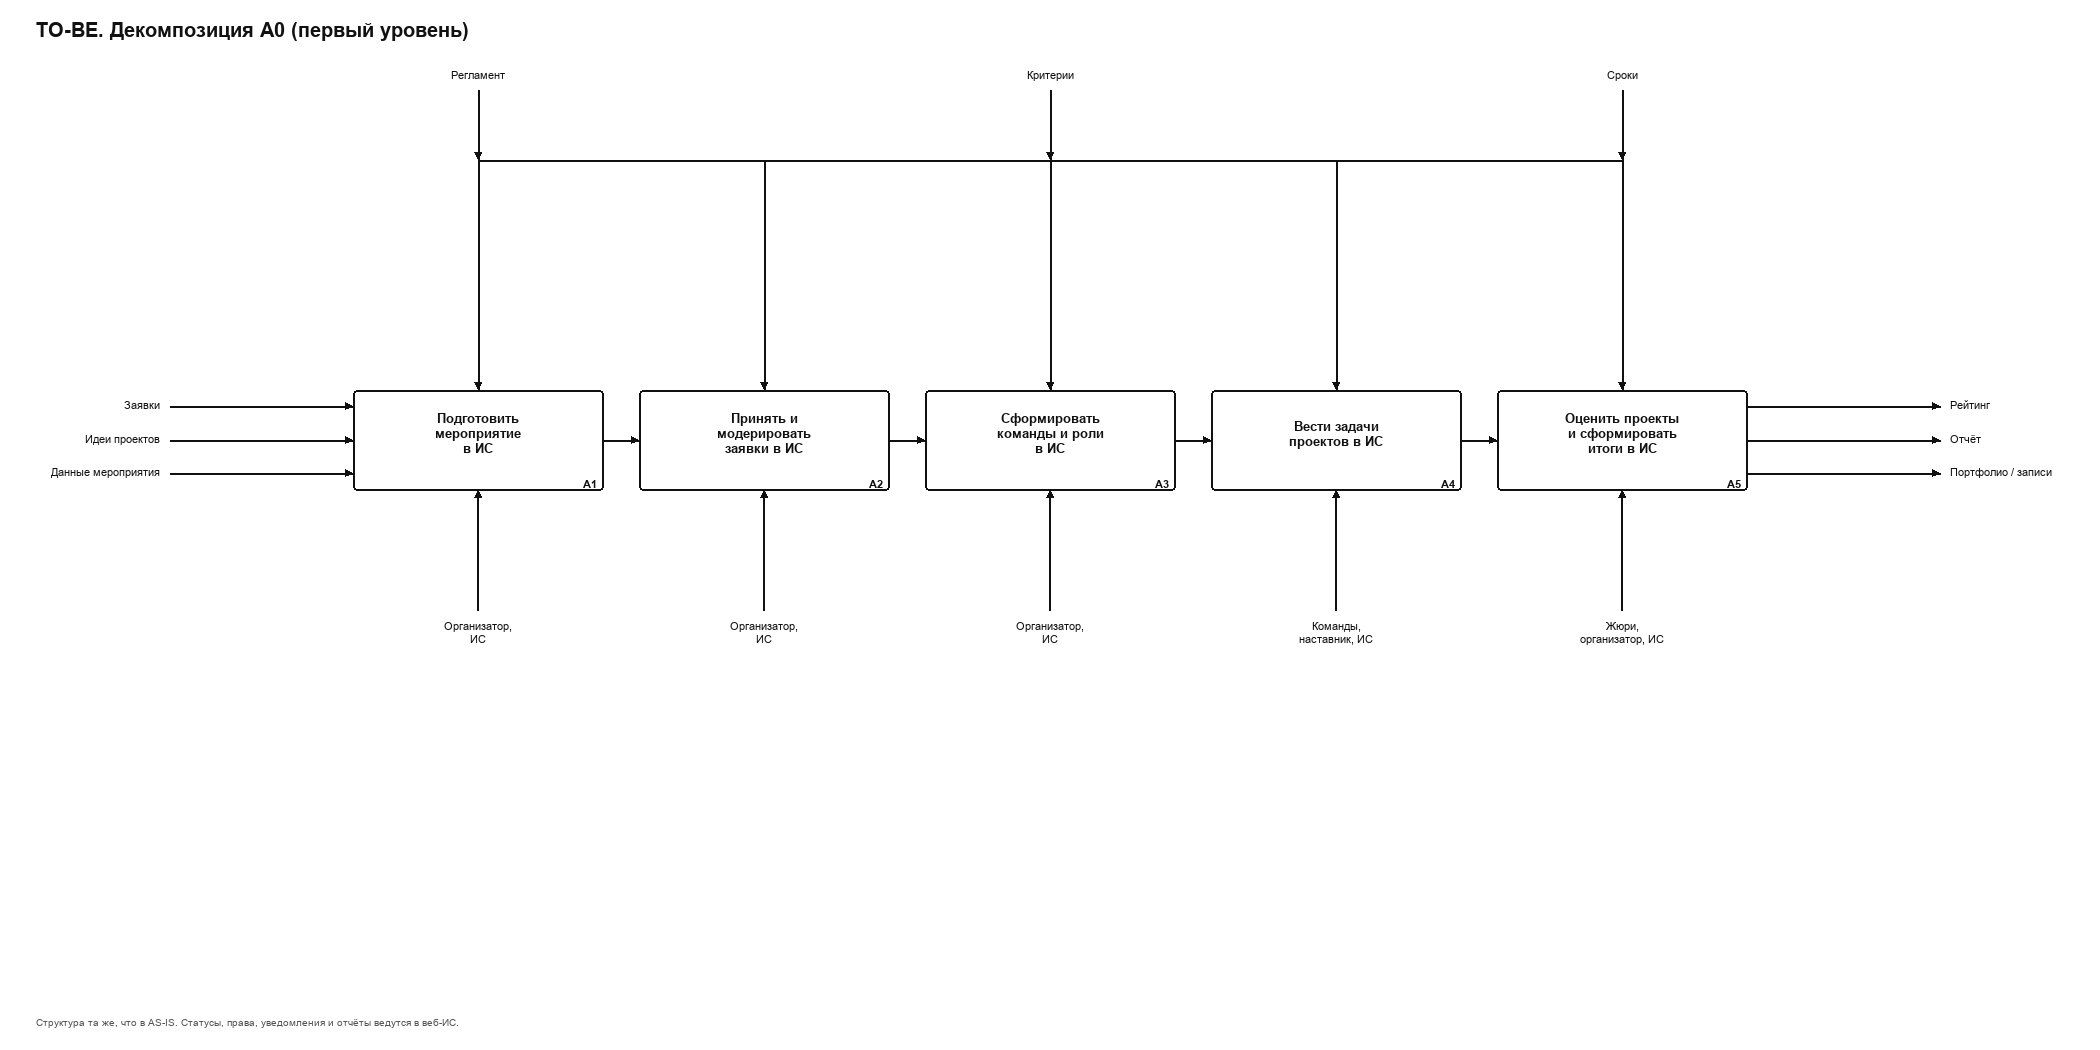
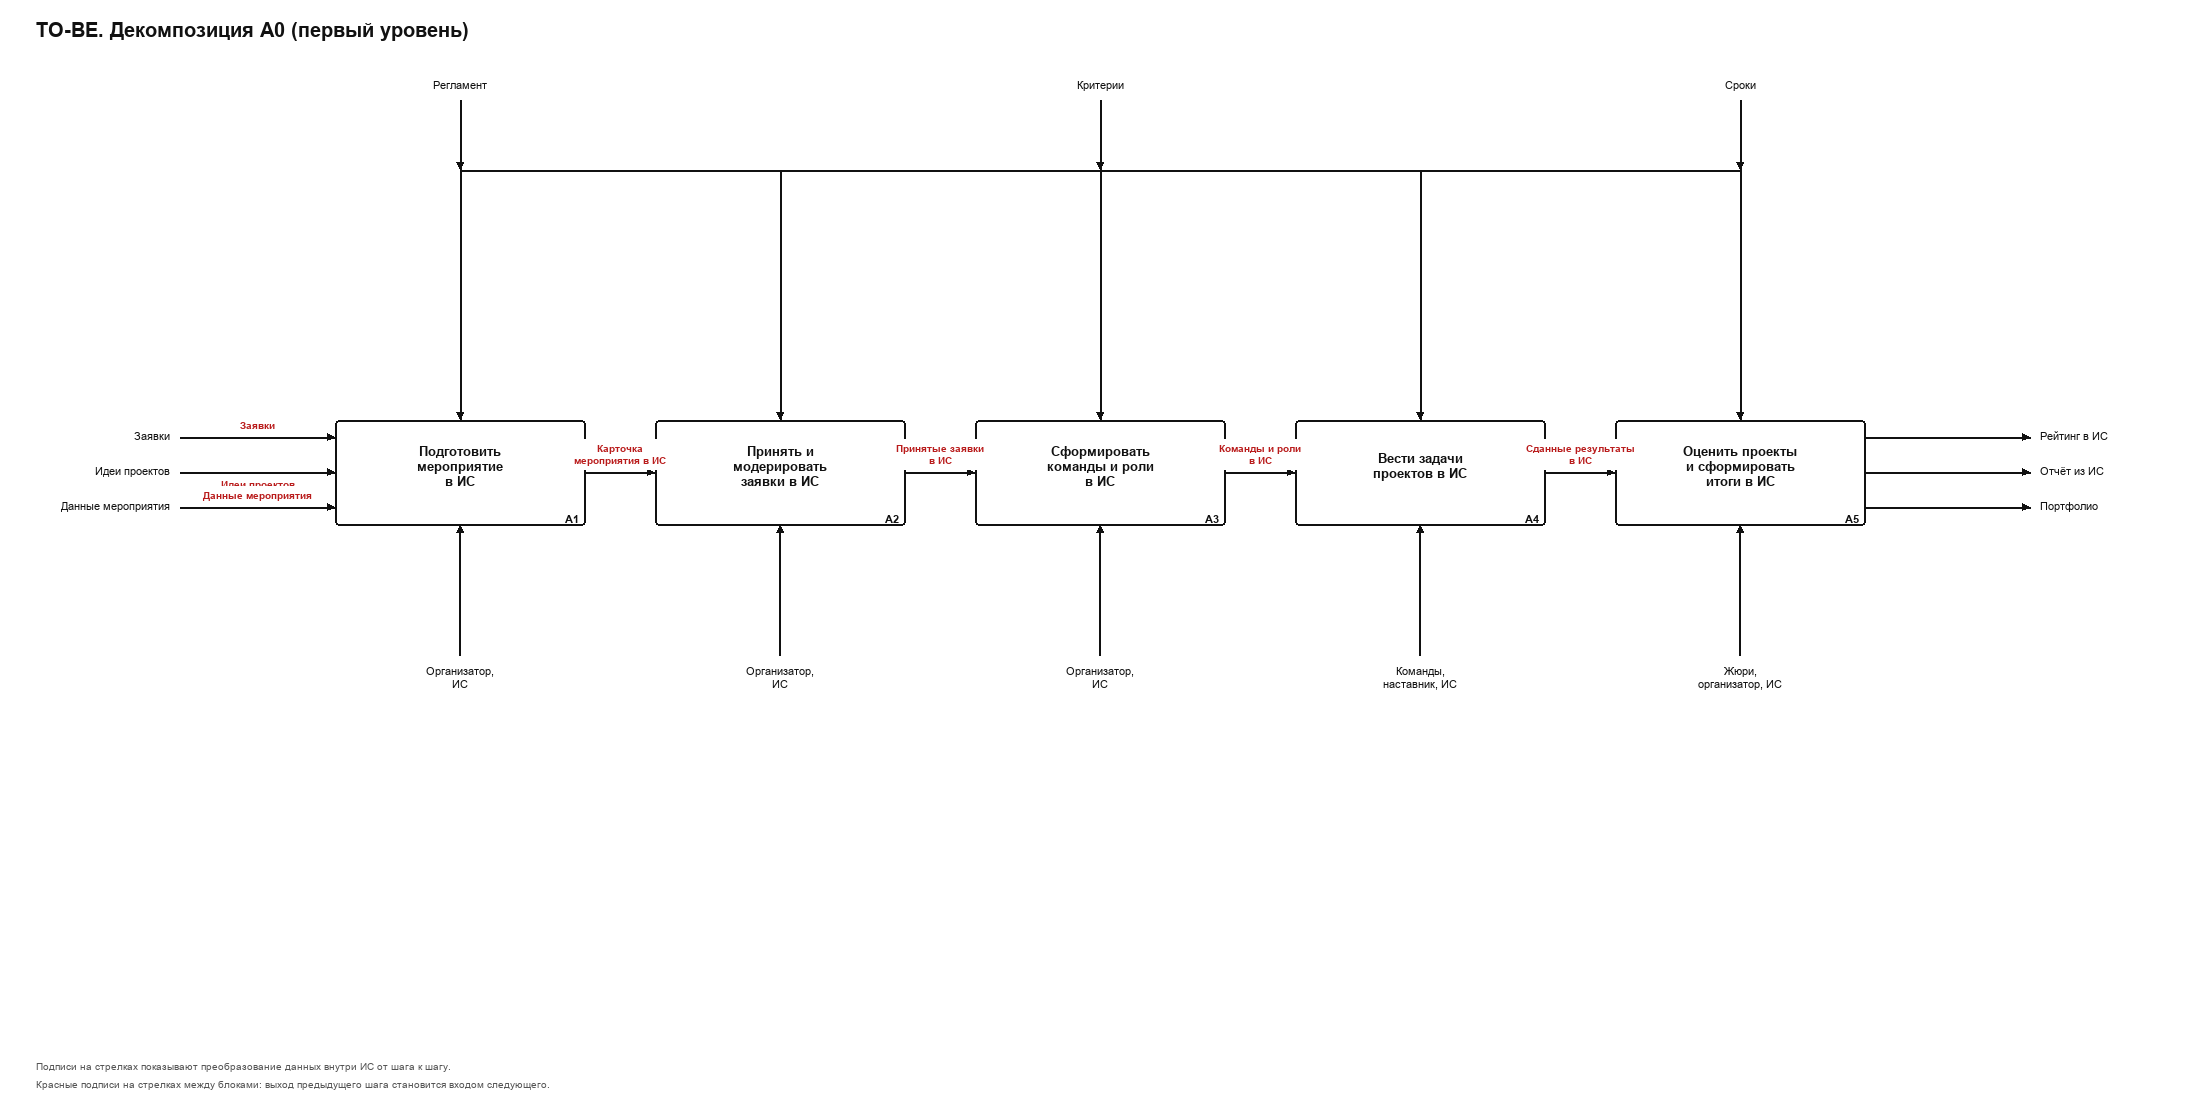
Label inter-block IDEF0 arrows with input-output data flows

diff --git a/02_idef0_biznes_processy/README.md b/02_idef0_biznes_processy/README.md
@@ -29,6 +29,8 @@
 - справа выход;
 - снизу механизм.
 
+На диаграммах ниже A-0 красным подписаны стрелки между блоками: выход предыдущего шага преобразуется во вход следующего.
+
 ---
 
 ## 1. AS-IS. Диаграмма A-0 (до внедрения ИС)
